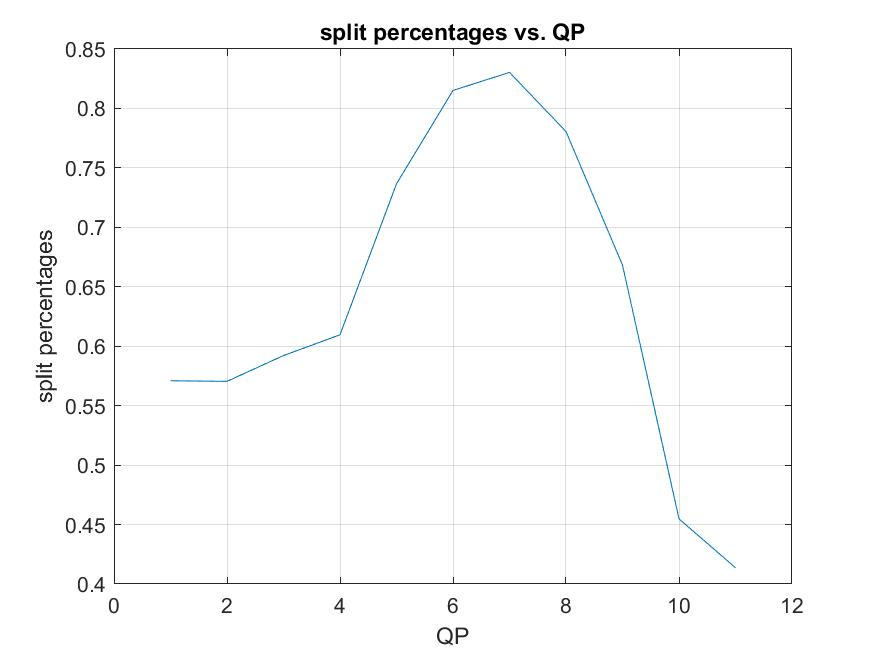
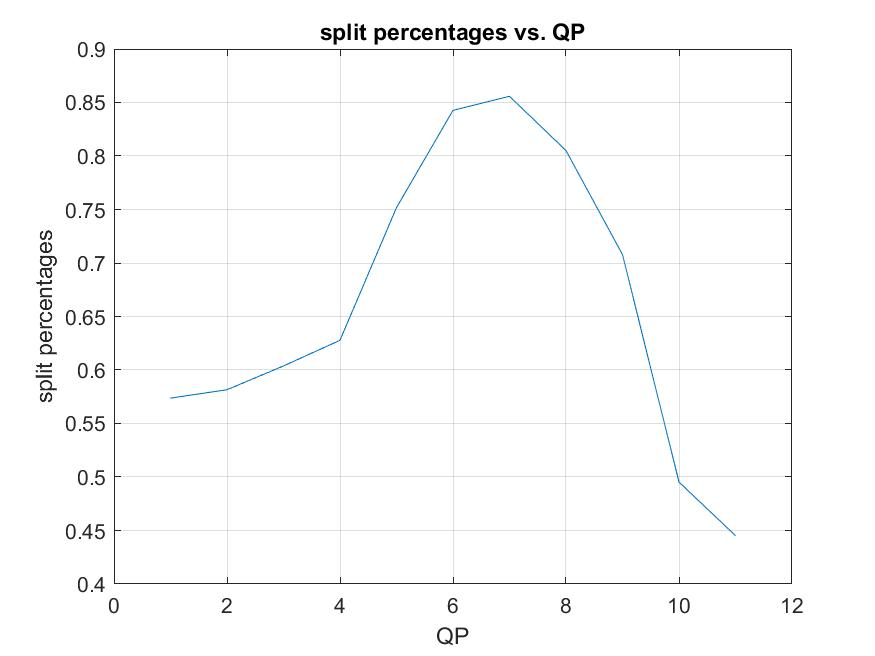
use differential encoding when split

diff --git a/A2/interPredictBlock.m b/A2/interPredictBlock.m
@@ -57,21 +57,21 @@ else
     if FastME == false
         [bestMVSplit(2, :), bestMAESplit(1, 2), referenceBlockSplit(:, :, 2), residualBlockSplit(:, :, 2)] = integerPixelFullSearch(refFrames, currentFrame, topRightWidthPixelIndex, topRightHeightPixelIndex, splitSize, r);
     else
-        [bestMVSplit(2, :), bestMAESplit(1, 2), referenceBlockSplit(:, :, 2), residualBlockSplit(:, :, 2)] = fastMotionEstimation(refFrames, currentFrame, topRightWidthPixelIndex, topRightHeightPixelIndex, splitSize, MVP);
+        [bestMVSplit(2, :), bestMAESplit(1, 2), referenceBlockSplit(:, :, 2), residualBlockSplit(:, :, 2)] = fastMotionEstimation(refFrames, currentFrame, topRightWidthPixelIndex, topRightHeightPixelIndex, splitSize, bestMVSplit(1, :));
     end
     
     % bottom left
     if FastME == false
         [bestMVSplit(3, :), bestMAESplit(1, 3), referenceBlockSplit(:, :, 3), residualBlockSplit(:, :, 3)] = integerPixelFullSearch(refFrames, currentFrame, bottomLeftWidthPixelIndex, bottomLeftHeightPixelIndex, splitSize, r);
     else
-        [bestMVSplit(3, :), bestMAESplit(1, 3), referenceBlockSplit(:, :, 3), residualBlockSplit(:, :, 3)] = fastMotionEstimation(refFrames, currentFrame, bottomLeftWidthPixelIndex, bottomLeftHeightPixelIndex, splitSize, MVP);
+        [bestMVSplit(3, :), bestMAESplit(1, 3), referenceBlockSplit(:, :, 3), residualBlockSplit(:, :, 3)] = fastMotionEstimation(refFrames, currentFrame, bottomLeftWidthPixelIndex, bottomLeftHeightPixelIndex, splitSize, bestMVSplit(2, :));
     end
     
     % top right
     if FastME == false
         [bestMVSplit(4, :), bestMAESplit(1, 4), referenceBlockSplit(:, :, 4), residualBlockSplit(:, :, 4)] = integerPixelFullSearch(refFrames, currentFrame, bottomRightWidthPixelIndex, bottomRightHeightPixelIndex, splitSize, r);
     else
-        [bestMVSplit(4, :), bestMAESplit(1, 4), referenceBlockSplit(:, :, 4), residualBlockSplit(:, :, 4)] = fastMotionEstimation(refFrames, currentFrame, bottomRightWidthPixelIndex, bottomRightHeightPixelIndex, splitSize, MVP);
+        [bestMVSplit(4, :), bestMAESplit(1, 4), referenceBlockSplit(:, :, 4), residualBlockSplit(:, :, 4)] = fastMotionEstimation(refFrames, currentFrame, bottomRightWidthPixelIndex, bottomRightHeightPixelIndex, splitSize, bestMVSplit(3, :));
     end
     
     SADNonSplit = bestMAENonSplit * blockSize * blockSize;
@@ -97,11 +97,16 @@ else
     end
     
     % for MVs
-    totalBitsNonSplit = totalBitsNonSplit + strlength(expGolombEncoding(RLE(bestMVNonSplit)));
+    totalBitsNonSplit = totalBitsNonSplit + strlength(expGolombEncoding(RLE(int32(bestMVNonSplit) - MVP)));
     % note we need to transpose bestMVSplit first before reshaping to get
     % row-wise reshaping
     % reshape([1,2,3; 4,5,6]', 1, []) = [1 2 3 4 5 6]
-    totalBitsSplit = totalBitsSplit + strlength(expGolombEncoding(RLE(reshape(bestMVSplit', 1, []))));
+    bestMVSplitDifferentialEncoded = int32(bestMVSplit);
+    bestMVSplitDifferentialEncoded(1, :) = bestMVSplit(1, :) - MVP;
+    bestMVSplitDifferentialEncoded(2, :) = bestMVSplit(2, :) - bestMVSplit(1, :);
+    bestMVSplitDifferentialEncoded(3, :) = bestMVSplit(3, :) - bestMVSplit(3, :);
+    bestMVSplitDifferentialEncoded(4, :) = bestMVSplit(4, :) - bestMVSplit(4, :);
+    totalBitsSplit = totalBitsSplit + strlength(expGolombEncoding(RLE(reshape(bestMVSplitDifferentialEncoded', 1, []))));
     
     JNonSplit = SADNonSplit + Lambda * totalBitsNonSplit;
     Jsplit = SADSplit + Lambda * totalBitsSplit;

diff --git a/A2/intraPredictBlock.m b/A2/intraPredictBlock.m
@@ -1,4 +1,4 @@
-function [split, mode, encodedQuantizedBlock, reconstructedBlock] = intraPredictBlock(verticalReference, horizontalReference, currentBlock, blockSize, QP, VBSEnable, FMEEnable, FastME, Lambda)
+function [split, mode, encodedQuantizedBlock, reconstructedBlock] = intraPredictBlock(verticalReference, horizontalReference, currentBlock, blockSize, QP, previousMode, VBSEnable, FMEEnable, FastME, Lambda)
 
 % return values: 
 %     split: boolean indicating whether we split this block 
@@ -174,7 +174,12 @@ else
     
     % for modes
     totalBitsNonSplit = totalBitsNonSplit + 1;
-    totalBitsSplit = totalBitsSplit + strlength(expGolombEncoding(RLE(modesSplit)));
+    modesSplitDifferentialEncoded = modesSplit;
+    modesSplitDifferentialEncoded(1,1) = modesSplit(1,1) - previousMode;
+    modesSplitDifferentialEncoded(1,2) = modesSplit(1,2) - modesSplit(1,1);
+    modesSplitDifferentialEncoded(1,3) = modesSplit(1,3) - modesSplit(1,2);
+    modesSplitDifferentialEncoded(1,4) = modesSplit(1,4) - modesSplit(1,3);
+    totalBitsSplit = totalBitsSplit + strlength(expGolombEncoding(RLE(modesSplitDifferentialEncoded)));
     
     JNonSplit = SADNonSplit + Lambda * totalBitsNonSplit;
     Jsplit = SADSplit + Lambda * totalBitsSplit;

diff --git a/A2/intraPrediction.m b/A2/intraPrediction.m
@@ -23,7 +23,7 @@ for heightBlockIndex = 1:heightBlockNum
         
         % the left-𝑖 (or top-𝑖) border reconstructed samples
         [verticalRefernce, horizontalReference] = getIntraPredictionReference(heightBlockIndex, widthBlockIndex, reconstructedFrame, blockSize);
-        [split, mode, encodedQuantizedBlock, reconstructedBlock] = intraPredictBlock(verticalRefernce, horizontalReference, currentBlock, blockSize, QP, VBSEnable, FMEEnable, FastME, Lambda);
+        [split, mode, encodedQuantizedBlock, reconstructedBlock] = intraPredictBlock(verticalRefernce, horizontalReference, currentBlock, blockSize, QP, previousMode, VBSEnable, FMEEnable, FastME, Lambda);
         
         splitInt = [splitInt, split];
         QTCCoeffsFrame = [QTCCoeffsFrame, encodedQuantizedBlock];
